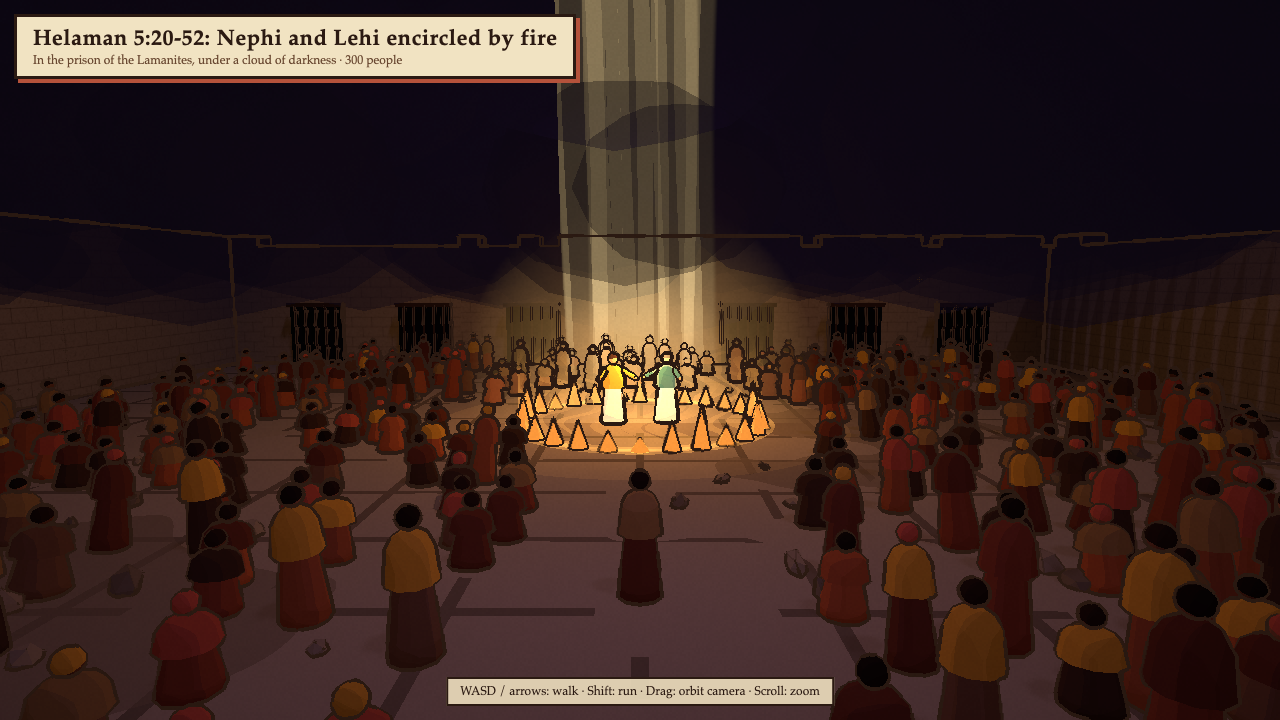
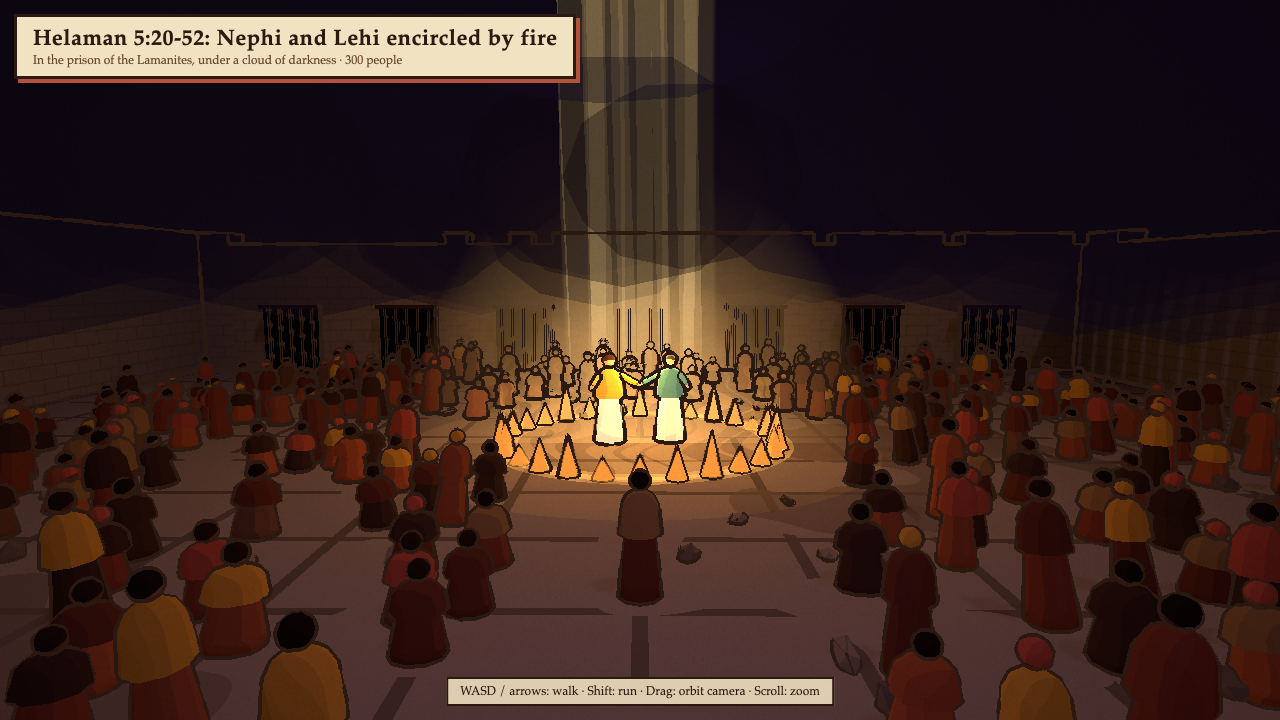
feat: polish toon scenes bom-31 to bom-36

diff --git a/styles/toon/scenes/bom-33.js b/styles/toon/scenes/bom-33.js
@@ -10,18 +10,25 @@ const STRIPLINGS = {
   hair: ['#2b1a12', '#3a2418'],
   wraps: ['#3e6e66'],
 };
-const KNOLL = [-56, 8];
+const LAMANITE_LIT = {
+  robes: ['#a0522d', '#b5623b', '#8c4a2c', '#c8784a', '#7a3b26'],
+  mantles: ['#c8912e', '#e0b060', '#a64b35', '#8c6a3c'],
+  skins: ['#7a4e33', '#8a5a3b', '#9c6a45'],
+  hair: ['#2b1a12', '#3a2418'],
+  wraps: ['#b5523b', '#c8912e'],
+};
+const KNOLL = [-50, -32];
 
 export default {
   title: 'Alma 56-57: The two thousand stripling warriors',
   subtitle: 'They fought as if with the strength of God, and not one was lost',
   seed: 56,
 
-  style: baseStyle({ fog: { color: '#ead3a6', near: 110, far: 900 }, lines: { width: 1.5, depth: 0.08, normal: 0.35, fade: [40, 220, 180, 0.35] } }),
+  style: baseStyle({ fog: { color: '#ead3a6', near: 140, far: 900 }, lines: { width: 1.4, depth: 0.08, normal: 0.35, fade: [30, 160, 140, 0.25] } }),
 
-  sky: { zenith: '#3a6f8a', mid: '#86b0b8', horizon: '#f0d6a2', ground: '#d9b98a', glowColor: '#fff0c8', glowDir: [-0.4, 0.45, -1] },
+  sky: { zenith: '#3a6f8a', mid: '#86b0b8', horizon: '#f0d6a2', ground: '#d9b98a', glowColor: '#fff0c8', glowDir: [0.4, 0.45, -1] },
 
-  sun: { dir: [-0.45, 0.8, 0.45], color: '#fff0d6', intensity: 2.5, hemi: { sky: '#d6ece2', ground: '#b07a52', intensity: 1.1 }, shadowSize: 90 },
+  sun: { dir: [-0.5, 0.85, 0.2], color: '#fff0d6', intensity: 2.6, hemi: { sky: '#e2f0e6', ground: '#c08a5e', intensity: 1.3 }, shadowSize: 90 },
 
   ground: groundSpec({ hillHeight: 40, flatRadius: 180, undulation: 0.25 }),
 
@@ -33,42 +40,42 @@ export default {
   ],
 
   custom(ctx) {
-    knoll(ctx, KNOLL[0], KNOLL[1], { r: 12, top: 5, h: 3.2 });
+    // The player's knoll on the western flank, between the two lines.
+    knoll(ctx, KNOLL[0], KNOLL[1], { r: 11, top: 4.5, h: 4.5 });
+    ctx.exclude({ kind: 'circle', x: KNOLL[0], z: KNOLL[1], r: 12 });
 
-    // Helaman's sons: twenty-five ranks of eighty, shields and spears, marching north.
-    let n = 2;
-    n += army(ctx, { spears: 0.3, shaftColor: '#9a7a52', center: [0, -12], rows: 25, cols: 80, spacing: 1.0, yaw: Math.PI, seed: 2, colors: STRIPLINGS, scale: [0.84, 0.95], crest: true, crestColors: ['#efe3c2'], helmColors: ['#c8a060', '#d8b070'], shields: ['#3e6e66', '#2f8f8a', '#efe3c2'], jitter: 0.15, jitterYaw: 0.12 });
+    // Helaman's sons: eight companies of five ranks, fifty abreast, facing north.
+    let n = 1;
+    n += army(ctx, { spears: 0.12, shaftColor: '#c8a878', center: [0, 7], rows: 40, cols: 50, spacing: 1.25, rankGroup: 5, rankGap: 1.8, yaw: Math.PI, seed: 2, colors: STRIPLINGS, scale: [0.86, 0.96], crest: true, crestColors: ['#efe3c2', '#ffffff'], helmColors: ['#d8b070', '#e6c27a', '#c8a060'], shields: ['#3e8e86', '#2f8f8a', '#efe3c2'], jitter: 0.12, jitterYaw: 0.1 });
 
-    // The Lamanite army, its rear turning to meet them.
-    n += army(ctx, { spears: 0.3, center: [0, -62], size: [110, 24], count: 1100, minSpacing: 1.1, yaw: Math.PI, seed: 3, colors: LAMANITE, helmets: false, shields: ['#8c4a2c', '#5e3020', '#c8912e'], jitterYaw: 0.6 });
-    n += army(ctx, { spears: 0.3, center: [0, -45], size: [100, 10], count: 450, minSpacing: 1.1, yaw: 0, seed: 4, colors: LAMANITE, helmets: false, shields: ['#8c4a2c', '#5e3020', '#c8912e'], jitterYaw: 0.7 });
+    // The Lamanite rear, turned south to meet them.
+    n += army(ctx, { spears: 0.15, shaftColor: '#8c6a48', center: [0, -39], size: [64, 7], count: 380, minSpacing: 1.3, yaw: 0, seed: 4, colors: LAMANITE_LIT, helmets: false, shields: ['#8c4a2c', '#c8912e', '#a64b35'], jitterYaw: 0.5 });
+    // Its main body, still facing Antipus in the north.
+    n += army(ctx, { spears: 0.15, shaftColor: '#8c6a48', center: [0, -54], size: [72, 16], count: 900, minSpacing: 1.3, yaw: Math.PI, seed: 3, colors: LAMANITE_LIT, helmets: false, shields: ['#8c4a2c', '#c8912e', '#a64b35'], jitterYaw: 0.6 });
 
-    // Antipus's army pressing from the north.
-    n += army(ctx, { spears: 0.3, center: [0, -92], rows: 12, cols: 70, spacing: 1.15, yaw: 0, seed: 5, colors: NEPHITE, crest: true, shields: ['#b5523b', '#c8912e'], jitterYaw: 0.3 });
+    // Antipus's weary army pressing from the north.
+    n += army(ctx, { spears: 0.2, center: [0, -78], rows: 8, cols: 60, spacing: 1.25, rankGroup: 4, rankGap: 1.5, yaw: 0, seed: 5, colors: NEPHITE, crest: true, shields: ['#b5523b', '#c8912e'], jitterYaw: 0.3 });
 
     // Helaman before his young men.
-    const h = figure(ctx, { robe: '#efe3c2', mantle: '#3e6e66', skin: '#a8724a', hair: '#d9c7a3', sash: '#c8912e', arms: [0.35, 0.9] }, 0, -28, { yaw: Math.PI, scale: 1.12 });
+    const h = figure(ctx, { robe: '#efe3c2', mantle: '#3e6e66', skin: '#a8724a', hair: '#d9c7a3', sash: '#c8912e', arms: [0.35, 0.9] }, -27, -27, { yaw: Math.PI - 0.4, scale: 1.3 });
     arm(h, ctx, { shield: '#efe3c2', rim: '#3e6e66', banner: '#3e6e66' });
 
-    for (const x of [-30, -10, 10, 30]) banner(ctx, x, -24.5, { h: 6, color: '#3e6e66', trim: '#efe3c2' });
-    for (const x of [-45, -15, 20, 48]) banner(ctx, x, -100, { h: 6, color: '#b5523b', trim: '#efe3c2' });
-    for (const x of [-40, -5, 35]) banner(ctx, x, -70, { h: 5.5, color: '#5e3020', trim: '#c8912e' });
+    for (const x of [-24, -8, 8, 24]) banner(ctx, x, -26, { h: 6.5, color: '#3e8e86', trim: '#efe3c2', rot: Math.PI / 2, w: 1.8, fh: 1.3 });
+    for (const x of [-26, 0, 26]) banner(ctx, x, -83, { h: 6, color: '#b5523b', trim: '#efe3c2', rot: Math.PI / 2 });
+    for (const x of [-22, 10]) banner(ctx, x, -62, { h: 5.5, color: '#8c4a2c', trim: '#c8912e', rot: Math.PI / 2 });
 
-    // Dust of battle where the lines meet.
-    const dust = { radius: 14, count: 10, size: [3, 6], rise: 5, color: '#e8d2a6', shade: '#6a5440', speed: 0.03, wind: [6, 1], fx: true, opacity: 0.35 };
+    // Dust where the lines meet.
+    const dust = { radius: 10, count: 7, size: [2.5, 5], rise: 4, color: '#f0dcb4', shade: '#8a7458', speed: 0.03, wind: [6, 1], fx: true, opacity: 0.28 };
     puffs(ctx, [
-      { ...dust, pos: [-45, -36] }, { ...dust, pos: [-15, -34] }, { ...dust, pos: [20, -36] }, { ...dust, pos: [50, -38] },
-      { ...dust, pos: [-40, -78] }, { ...dust, pos: [0, -80] }, { ...dust, pos: [40, -78] },
+      { ...dust, pos: [-18, -31] }, { ...dust, pos: [14, -32] },
+      { ...dust, pos: [-20, -70] }, { ...dust, pos: [18, -70] },
     ]);
     peopleCount(ctx, this.subtitle, n);
-
-    // The player's knoll top, kept clear of figures.
-    ctx.exclude({ kind: 'circle', x: KNOLL[0], z: KNOLL[1], r: 13 });
   },
 
   player: {
-    start: [-55, 9],
-    lookAt: [0, -40],
+    start: [-50, -30],
+    lookAt: [0, -36],
     colors: { robe: '#e6d8b8', mantle: '#3e6e66', skin: '#a8724a', hair: '#2b1a12', sash: '#efe3c2' },
   },
 };

diff --git a/styles/toon/scenes/bom-31.js b/styles/toon/scenes/bom-31.js
@@ -1,10 +1,11 @@
 // Alma 48-50: Moroni rings the Nephite cities with ridges of earth, timber pickets and towers.
 // x is east, z is south. The city lies north of the start, its gate facing the player.
 import * as THREE from 'three';
-import { army, banner, baseStyle, cyl, drapeRect, drapeRing, figure, groundSpec, house, arm, merge, NEPHITE, put, tower, trees } from './lib/bom-31-kit.js';
+import { army, banner, baseStyle, cyl, drapeRect, drapeRing, figure, groundSpec, house, arm, knoll, merge, NEPHITE, put, tower, trees } from './lib/bom-31-kit.js';
 
 const CITY = [0, -62];
 const R = 44;
+const RISE = [-6, 12];
 
 // Earth ridge ring with pickets on its crest; a gap at angle `gate` (0 is south).
 function fortify(ctx, [cx, cz], r, { gate = 0, gap = 0.1, towers = 8, collide = true, ridgeH = 3.2, base = 7 } = {}) {
@@ -58,8 +59,9 @@ function fortify(ctx, [cx, cz], r, { gate = 0, gap = 0.1, towers = 8, collide = 
   // The ditch dug outside the ridge, the earth thrown up to make it.
   const ditchArcs = [[gate + gap, gate + Math.PI * 2 - gap]];
   for (const arc of ditchArcs) {
-    drapeRing(ctx, cx, cz, r + base / 2 + 0.5, r + base / 2 + 5, '#6e4a30', { arc, seg: 160 });
-    drapeRing(ctx, cx, cz, r + base / 2 + 1.5, r + base / 2 + 4, '#4f3424', { arc, seg: 160, lift: 0.06 });
+    drapeRing(ctx, cx, cz, r + base / 2, r + base / 2 + 7, '#6e4a30', { arc, seg: 160 });
+    drapeRing(ctx, cx, cz, r + base / 2 + 1.2, r + base / 2 + 5.4, '#3a2418', { arc, seg: 160, lift: 0.1 });
+    drapeRing(ctx, cx, cz, r + base / 2 + 7, r + base / 2 + 8.2, '#e8cc94', { arc, seg: 160, lift: 0.1, rings: 1 });
   }
   const tops = [];
   for (let t = 0; t < towers; t++) {
@@ -101,12 +103,16 @@ export default {
   ],
 
   custom(ctx) {
+    // A low rise south of the gate, for a view over the ditch.
+    knoll(ctx, RISE[0], RISE[1], { r: 9, top: 4, h: 3 });
+    ctx.exclude({ kind: 'circle', x: RISE[0], z: RISE[1], r: 10 });
+
     const tops = fortify(ctx, CITY, R);
     // A sister city on the far plain, fortified the same way.
     fortify(ctx, [210, -330], 34, { gate: 2.6, towers: 6, collide: false });
 
     // Timber bridge over the ditch at the gate, and the road in.
-    drapeRect(ctx, 0, -12, 5, 9, '#9a7048', { lift: 0.12 });
+    drapeRect(ctx, 0, -11, 5, 12, '#9a7048', { lift: 0.16 });
     drapeRect(ctx, 0, 6, 4.5, 30, '#c9a46e', { lift: 0.05 });
 
     // Houses inside the walls.
@@ -118,9 +124,9 @@ export default {
     trees(ctx, [[-36, -64, 6], [36, -48, 6], [-4, -44, 5], [8, -76, 5], [-38, -80, 6]]);
 
     // Moroni at the gate with the title of liberty on its pole.
-    const moroni = figure(ctx, { robe: '#8c2f22', mantle: '#c8912e', skin: '#a8724a', hair: '#2b1a12', sash: '#efe3c2', arms: [0.4, 0.5] }, 4.5, -8, { face: [0, 40], scale: 1.1 });
+    const moroni = figure(ctx, { robe: '#8c2f22', mantle: '#c8912e', skin: '#a8724a', hair: '#2b1a12', sash: '#efe3c2', arms: [0.4, 0.5] }, 2.6, -1, { face: [-6, 20], scale: 1.25 });
     arm(moroni, ctx, { shield: '#c8912e', rim: '#8c2f22' });
-    banner(ctx, 6.2, -8.5, { h: 6, color: '#efe3c2', trim: '#8c2f22', w: 1.4, fh: 1.8 });
+    banner(ctx, 4.2, -1.6, { h: 6, color: '#efe3c2', trim: '#8c2f22', w: 1.4, fh: 1.8 });
 
     // Watchmen on every tower.
     for (const t of tops) {
@@ -141,16 +147,16 @@ export default {
     colors: NEPHITE,
     aisles: [{ from: [0, 30], to: [0, -14], width: 5 }],
     groups: [
-      { center: CITY, radius: [R + 7, R + 14], angle: [0.25, 1.6], count: 70, kneel: 0.45, facingJitter: 1.2 },
-      { center: CITY, radius: [R + 7, R + 14], angle: [-1.6, -0.25], count: 70, kneel: 0.45, facingJitter: 1.2 },
-      { shape: 'rect', center: [-14, 14], size: [12, 10], count: 25, kneel: 0.2, facingJitter: 1.5 },
+      { center: CITY, radius: [R + 13, R + 19], angle: [0.25, 1.6], count: 70, kneel: 0.45, facingJitter: 1.2 },
+      { center: CITY, radius: [R + 13, R + 19], angle: [-1.6, -0.25], count: 70, kneel: 0.45, facingJitter: 1.2 },
+      { shape: 'rect', center: [-22, 14], size: [10, 10], count: 25, kneel: 0.2, facingJitter: 1.5 },
       { shape: 'rect', center: [16, 18], size: [10, 10], count: 20, kneel: 0.3, facingJitter: 1.5 },
       { center: CITY, radius: [4, 30], count: 90, children: 0.2, facingJitter: 3 },
     ],
   },
 
   player: {
-    start: [-5, 22],
+    start: [-6, 12],
     lookAt: [0, -40],
     colors: { robe: '#7a6a52', mantle: '#b5523b', skin: '#a8724a', hair: '#2b1a12', sash: '#c8912e' },
   },

diff --git a/styles/toon/scenes/bom-32.js b/styles/toon/scenes/bom-32.js
@@ -3,7 +3,7 @@
 import { army, arm, baseStyle, campfire, figure, glow, groundSpec, hills, LAMANITE, moon, sea, stars, tent } from './lib/bom-31-kit.js';
 
 const TENT = [8, -22];
-const TEANCUM = [6.2, -15.8];
+const TEANCUM = [7.2, -15.2];
 
 export default {
   title: 'Alma 51:33-34: Teancum slays Amalickiah',
@@ -54,15 +54,17 @@ export default {
     tents.forEach(([x, z, rot], i) => tent(ctx, x, z, { rot, w: 3 + (i % 2), d: 4, h: 2.2 + (i % 3) * 0.2, color: ['#a87b4f', '#8c5a3c', '#7a6a52', '#9c6b4e'][i % 4] }));
     const fires = [[-8, -6], [18, -14], [-22, -28], [16, -38], [-2, 14], [32, -24], [-34, 0], [28, 14]];
     fires.forEach(([x, z], i) => campfire(ctx, x, z, { size: 0.9, light: i < 4 ? 9 : 0, glowSize: 6 }));
-    fires.forEach(([x, z], i) => army(ctx, { center: [x, z], radius: [2.2, 6], count: 14, lie: true, weapons: false, helmets: false, colors: LAMANITE, seed: 20 + i, jitterYaw: 6 }));
+    fires.forEach(([x, z], i) => army(ctx, { center: [x, z], radius: [2.4, 5.5], count: 12, kneel: 1, lean: 0.9, weapons: false, helmets: false, colors: LAMANITE, seed: 20 + i, facing: [x, z], jitterYaw: 0.8 }));
 
     // Guards by the tent, overcome with sleep.
-    army(ctx, { center: [TENT[0] - 5, TENT[1] + 1], radius: [0, 1.5], count: 3, lie: true, helmets: false, colors: LAMANITE, seed: 7, jitterYaw: 6 });
-    army(ctx, { center: [TENT[0] + 5.5, TENT[1] - 1], radius: [0, 1.5], count: 2, lie: true, helmets: false, colors: LAMANITE, seed: 8, jitterYaw: 6 });
+    army(ctx, { center: [TENT[0] - 5, TENT[1] + 1], radius: [0, 1.5], count: 3, kneel: 1, lean: 1, helmets: false, colors: LAMANITE, seed: 7, jitterYaw: 6 });
+    army(ctx, { center: [TENT[0] + 5.5, TENT[1] - 1], radius: [0, 1.5], count: 2, kneel: 1, lean: 1, helmets: false, colors: LAMANITE, seed: 8, jitterYaw: 6 });
 
     // Teancum at the tent door, javelin in hand.
-    const t = figure(ctx, { robe: '#3e4a5e', mantle: '#2b2a3a', skin: '#9c6a45', hair: '#1f140e', sash: '#7a6a52', arms: [0.3, 0.7] }, TEANCUM[0], TEANCUM[1], { face: TENT, scale: 1.05 });
-    arm(t, ctx, { shield: '#3a3a48', rim: '#1f140e', spear: '#4a3426' });
+    const t = figure(ctx, { robe: '#6a7a9a', mantle: '#3e4a6a', skin: '#a8724a', hair: '#1f140e', sash: '#c8912e', arms: [0.3, 1.1] }, TEANCUM[0], TEANCUM[1], { face: [TENT[0] + 0.6, TENT[1] + 3], scale: 1.15 });
+    arm(t, ctx, { shield: '#5a6a8a', rim: '#c8912e', spear: '#6b4a33' });
+    // His servant keeping watch behind him.
+    figure(ctx, { robe: '#5a6680', mantle: '#34405a', skin: '#9c6a45', hair: '#1f140e', sash: '#7a6a52', arms: [0.25, 0.3] }, TEANCUM[0] - 2.2, TEANCUM[1] + 1.6, { face: [0, 0], scale: 1.0 });
   },
 
   crowd: {
@@ -82,7 +84,7 @@ export default {
   },
 
   player: {
-    start: [0, -1],
+    start: [3, -5],
     lookAt: [TENT[0] + 2, TENT[1]],
     colors: { robe: '#3a4458', mantle: '#2b2a3a', skin: '#a8724a', hair: '#1f140e', sash: '#5e4632' },
   },

diff --git a/styles/toon/scenes/bom-35.js b/styles/toon/scenes/bom-35.js
@@ -51,8 +51,8 @@ export default {
     put(ctx, merge(bars), '#4a3426', 0, 0, { y: ctx.terrainHeight(0, -26) });
 
     // The brothers, faces shining, in the midst of the fire.
-    figure(ctx, { robe: '#efe3c2', mantle: '#c8912e', skin: '#c9905f', hair: '#3a2418', sash: '#b5523b', arms: [0.5, 1.2] }, -0.8, BROTHERS[1], { yaw: 0.3, glow: 0.6, clear: 0, scale: 1.2 });
-    figure(ctx, { robe: '#e6d8b8', mantle: '#3e6e66', skin: '#c9905f', hair: '#2b1a12', sash: '#c8912e', arms: [0.5, 1.2] }, 0.8, BROTHERS[1] - 0.2, { yaw: -0.3, glow: 0.6, clear: 0, scale: 1.2 });
+    figure(ctx, { robe: '#efe3c2', mantle: '#c8912e', skin: '#c9905f', hair: '#3a2418', sash: '#b5523b', arms: [0.5, 1.2] }, -0.8, BROTHERS[1], { yaw: 0.3, glow: 0.6, clear: 0, scale: 1.35 });
+    figure(ctx, { robe: '#e6d8b8', mantle: '#3e6e66', skin: '#c9905f', hair: '#2b1a12', sash: '#c8912e', arms: [0.5, 1.2] }, 0.8, BROTHERS[1] - 0.2, { yaw: -0.3, glow: 0.6, clear: 0, scale: 1.35 });
     ctx.exclude({ kind: 'circle', x: BROTHERS[0], z: BROTHERS[1], r: FIRE_R + 1.6 });
     ctx.addCollider({ x: BROTHERS[0], z: BROTHERS[1], hx: FIRE_R, hz: FIRE_R, rot: 0, top: ctx.terrainHeight(...BROTHERS) + 3 });
 
@@ -76,7 +76,7 @@ export default {
   },
 
   light: {
-    beams: [{ from: [0, 60, -12], to: { pos: [BROTHERS[0], 0.5, BROTHERS[1]] }, width: [6, 4.5], color: '#ffe0a0', intensity: 0.45, layers: 2, stripes: 22, fadeLow: 0.05 }],
+    beams: [{ from: [0, 60, -12], to: { pos: [BROTHERS[0], 0.5, BROTHERS[1]] }, width: [4.6, 4], color: '#ffd890', intensity: 0.32, layers: 2, stripes: 22, fadeLow: 0.05 }],
     rings: [{ pos: [BROTHERS[0], 0.02, BROTHERS[1]], radius: FIRE_R, width: 0.45, height: 2.6, color: '#ffb050', intensity: 0.9, wallIntensity: 0.4 }],
     pointLights: [
       { pos: [BROTHERS[0], 2.2, BROTHERS[1]], color: '#ffb868', intensity: 16, distance: 30, decay: 1.3 },
@@ -89,13 +89,13 @@ export default {
     minSpacing: 0.7,
     facing: BROTHERS,
     colors: LAMANITE,
-    aisles: [{ from: [0, 8], to: [0, -6], width: 3 }],
+    aisles: [{ from: [0, 8], to: [0, -6], width: 3.6 }],
     keepClear: [{ kind: 'circle', x: BROTHERS[0], z: BROTHERS[1], r: FIRE_R + 1.6 }],
     groups: [{ center: BROTHERS, radius: [FIRE_R + 1.8, 17], count: 300, kneel: 0.6, facingJitter: 0.4, lean: 0.25 }],
   },
 
   player: {
-    start: [0, -0.5],
+    start: [0, -3],
     lookAt: BROTHERS,
     colors: { robe: '#5e3020', mantle: '#8c6a3c', skin: '#8a5a3b', hair: '#1f140e', sash: '#c8912e' },
   },

diff --git a/styles/toon/scenes/bom-36.js b/styles/toon/scenes/bom-36.js
@@ -5,7 +5,7 @@ import * as THREE from 'three';
 import { baseStyle, box, figure, groundSpec, house, jars, merge, NEPHITE, put, solid, trees, cyl, drapeRect } from './lib/bom-31-kit.js';
 
 const TOWER = [-12, -9];
-const TOWER_H = 7.5;
+const TOWER_H = 4.8;
 
 function stoneTower(ctx, [x, z]) {
   const y = ctx.terrainHeight(x, z) - 0.2;
@@ -67,7 +67,7 @@ export default {
     const top = stoneTower(ctx, TOWER);
 
     // Nephi bowed in prayer on the tower top.
-    figure(ctx, { robe: '#efe3c2', mantle: '#b5523b', skin: '#a8724a', hair: '#d9c7a3', sash: '#c8912e', arms: [0.45, 2.2] }, TOWER[0], TOWER[1] + 1.4, { y: top, yaw: 0.35, kneel: true, scale: 1.45, clear: 0 });
+    figure(ctx, { robe: '#efe3c2', mantle: '#b5523b', skin: '#a8724a', hair: '#d9c7a3', sash: '#c8912e', arms: [0.45, 2.2] }, TOWER[0] + 0.3, TOWER[1] + 1.5, { y: top, yaw: 0.7, kneel: true, scale: 1.9, clear: 0 });
 
     // The garden: fruit trees in rows, beds and a path.
     const orchard = [];
@@ -116,8 +116,9 @@ export default {
     facing: TOWER,
     colors: NEPHITE,
     aisles: [{ from: [-12, -3], to: [-12, -20], width: 2.4 }],
+    keepClear: [{ kind: 'circle', x: 1, z: 4, r: 4 }],
     groups: [
-      { shape: 'rect', center: [-12, 1], size: [34, 8], count: 230, children: 0.15, facingJitter: 0.4 },
+      { shape: 'rect', center: [-14, 1], size: [30, 8], count: 230, children: 0.15, facingJitter: 0.4 },
       { shape: 'rect', center: [-12, -1], size: [10, 6], count: 30, kneel: 0.3, facingJitter: 0.3 },
       { shape: 'rect', center: [74, 0], size: [30, 22], count: 110, children: 0.15, facingJitter: 3, facing: [74, 0] },
       { shape: 'rect', center: [25, 0], size: [40, 7], count: 45, facingJitter: 1.0 },
@@ -125,8 +126,8 @@ export default {
   },
 
   player: {
-    start: [12, 4],
-    lookAt: TOWER,
+    start: [0, 4],
+    lookAt: [-13, -8],
     colors: { robe: '#c8a97a', mantle: '#b5523b', skin: '#a8724a', hair: '#2b1a12', sash: '#3e6e66' },
   },
 };

diff --git a/styles/toon/scenes/lib/bom-31-kit.js b/styles/toon/scenes/lib/bom-31-kit.js
@@ -225,7 +225,8 @@ export function army(ctx, o) {
     const sp = o.spacing ?? 1.1;
     for (let r = 0; r < o.rows; r++) for (let c = 0; c < o.cols; c++) {
       const lx = (c - (o.cols - 1) / 2) * sp + (rng() - 0.5) * (o.jitter ?? 0.25);
-      const lz = (r - (o.rows - 1) / 2) * sp + (rng() - 0.5) * (o.jitter ?? 0.25);
+      const block = o.rankGroup ? Math.floor(r / o.rankGroup) - Math.floor((o.rows - 1) / o.rankGroup) / 2 : 0;
+      const lz = (r - (o.rows - 1) / 2) * sp + block * (o.rankGap ?? 0) + (rng() - 0.5) * (o.jitter ?? 0.25);
       tryAdd(o.center[0] + lx * c0 + lz * s0, o.center[1] - lx * s0 + lz * c0);
     }
   } else {
@@ -297,13 +298,13 @@ export function army(ctx, o) {
   return n;
 }
 
-export function banner(ctx, x, z, { h = 5, color = '#b5523b', trim = '#efe3c2', w = 1.6, fh = 1.1, wave = true } = {}) {
+export function banner(ctx, x, z, { h = 5, color = '#b5523b', trim = '#efe3c2', w = 1.6, fh = 1.1, wave = true, rot = 0 } = {}) {
   const y = ctx.terrainHeight(x, z);
   put(ctx, cyl(0.06, 0.07, h, 0, h / 2, 0, 6), '#5e4632', x, z, { y });
   const geo = new THREE.PlaneGeometry(w, fh, 8, 1);
   geo.translate(w / 2 + 0.05, h - fh / 2 - 0.15, 0);
-  const flag = put(ctx, geo, color, x, z, { y, side: THREE.DoubleSide, cast: false, mat: ctx.kit.toon(color, { side: THREE.DoubleSide }) });
-  put(ctx, box(w, 0.12, 0.05, w / 2 + 0.05, h - fh - 0.15, 0), trim, x, z, { y, cast: false });
+  const flag = put(ctx, geo, color, x, z, { y, rot, side: THREE.DoubleSide, cast: false, mat: ctx.kit.toon(color, { side: THREE.DoubleSide }) });
+  put(ctx, box(w, 0.12, 0.05, w / 2 + 0.05, h - fh - 0.15, 0), trim, x, z, { y, rot, cast: false });
   if (wave) {
     const pos = geo.attributes.position;
     const base = Float32Array.from(pos.array);

diff --git a/styles/toon/scenes/bom-34.js b/styles/toon/scenes/bom-34.js
@@ -91,7 +91,7 @@ export default {
     put(ctx, box(9.6, 0.25, 7.6, 0, 3.75, 0, { rz: 0.08 }), '#c8a97a', 18, 22);
 
     // Hagoth, overseeing the launch.
-    figure(ctx, { robe: '#3e6e66', mantle: '#c8912e', skin: '#a8724a', hair: '#d9c7a3', sash: '#efe3c2', arms: [0.45, 0.6] }, SHORE + 4, PIER_Z, { face: [SHORE - 30, PIER_Z - 10], scale: 1.1 });
+    figure(ctx, { robe: '#efe3c2', mantle: '#2f8f8a', skin: '#a8724a', hair: '#d9c7a3', sash: '#c8912e', arms: [0.45, 1.6] }, SHORE + 18.5, PIER_Z - 4, { face: [SHORE - 30, PIER_Z - 6], scale: 1.25, clear: 2.5 });
 
     // The shipbuilders' village inland.
     const homes = [[30, -30, 0.3], [42, -12, -0.2], [36, 12, 0.5], [50, 30, 0.1], [26, -50, -0.4], [58, -36, 0.2]];
@@ -105,6 +105,7 @@ export default {
     facing: [SHORE - 12, PIER_Z],
     colors: NEPHITE,
     aisles: [{ from: [SHORE + 16, PIER_Z], to: [SHORE - 1, PIER_Z], width: 3.2 }],
+    keepClear: [{ kind: 'circle', x: 9, z: -6, r: 7 }],
     groups: [
       { shape: 'rect', center: [SHORE + 9, PIER_Z + 1], size: [10, 16], count: 90, children: 0.25, facingJitter: 0.6 },
       { shape: 'rect', center: [-4, 23], size: [26, 4], count: 30, kneel: 0.2, facingJitter: 2.5, facing: [-4, 16] },
@@ -115,8 +116,8 @@ export default {
   },
 
   player: {
-    start: [14, -6],
-    lookAt: [-34, 4],
+    start: [5, -5],
+    lookAt: [-34, 2],
     colors: { robe: '#c8a97a', mantle: '#4f7f80', skin: '#a8724a', hair: '#2b1a12', sash: '#b5523b' },
   },
 };
